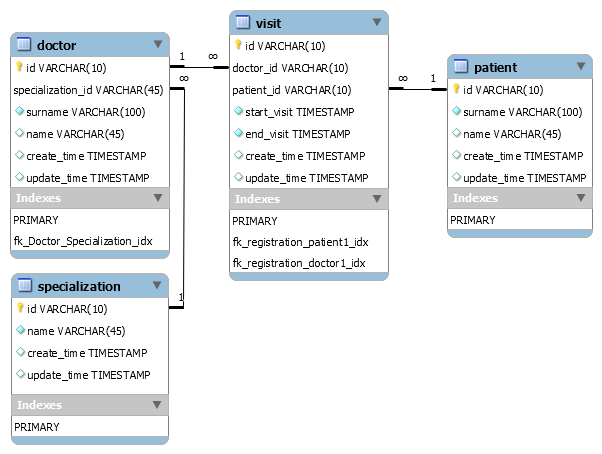
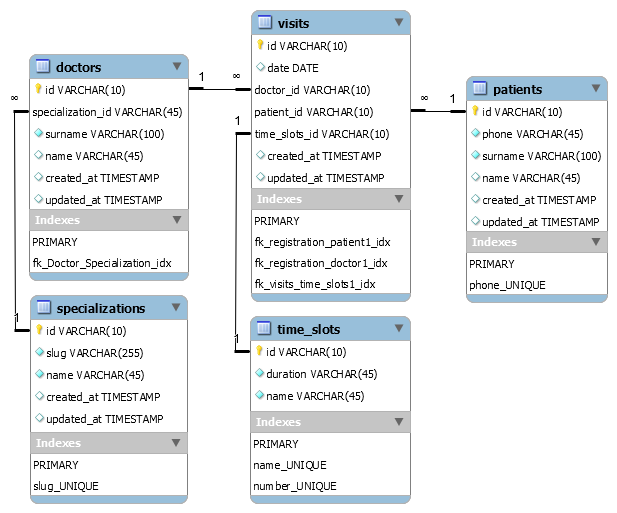
Обновление архитектуры

Changed region(s): [[0.0, 0.0, 0.6877, 0.9868], [0.6279, 0.0925, 0.9867, 0.6167]]

diff --git a/database/migrations/2019_08_05_164028_create_time_slots_table.php b/database/migrations/2019_08_05_164028_create_time_slots_table.php
@@ -4,7 +4,7 @@ use Illuminate\Support\Facades\Schema;
 use Illuminate\Database\Schema\Blueprint;
 use Illuminate\Database\Migrations\Migration;
 
-class CreateUsersTable extends Migration
+class CreateTimeSlotsTable extends Migration
 {
     /**
      * Run the migrations.
@@ -13,14 +13,10 @@ class CreateUsersTable extends Migration
      */
     public function up()
     {
-        Schema::create('users', function (Blueprint $table) {
+        Schema::create('time_slots', function (Blueprint $table) {
             $table->bigIncrements('id');
-            $table->string('name');
-            $table->string('email')->unique();
-            $table->timestamp('email_verified_at')->nullable();
-            $table->string('password');
-            $table->rememberToken();
-            $table->timestamps();
+            $table->integer('duration');
+            $table->string('name', 100);
         });
     }
 
@@ -31,6 +27,6 @@ class CreateUsersTable extends Migration
      */
     public function down()
     {
-        Schema::dropIfExists('users');
+        Schema::dropIfExists('time_slots');
     }
 }

diff --git a/database/migrations/2019_08_05_162514_visits_modification.php b/database/migrations/2019_08_05_162514_visits_modification.php
@@ -4,7 +4,7 @@ use Illuminate\Support\Facades\Schema;
 use Illuminate\Database\Schema\Blueprint;
 use Illuminate\Database\Migrations\Migration;
 
-class CreatePasswordResetsTable extends Migration
+class VisitsModification extends Migration
 {
     /**
      * Run the migrations.
@@ -13,10 +13,9 @@ class CreatePasswordResetsTable extends Migration
      */
     public function up()
     {
-        Schema::create('password_resets', function (Blueprint $table) {
-            $table->string('email')->index();
-            $table->string('token');
-            $table->timestamp('created_at')->nullable();
+        Schema::table('visits', function (Blueprint $table) {
+            $table->dropColumn(['start_visit', 'end_visit']);
+            $table->integer('time_slots_id')->after('patient_id');
         });
     }
 
@@ -27,6 +26,8 @@ class CreatePasswordResetsTable extends Migration
      */
     public function down()
     {
-        Schema::dropIfExists('password_resets');
+        Schema::table('visits', function (Blueprint $table) {
+            //
+        });
     }
 }

diff --git a/database/migrations/2019_08_05_163405_add_slug_to_specializations.php b/database/migrations/2019_08_05_163405_add_slug_to_specializations.php
@@ -1,0 +1,32 @@
+<?php
+
+use Illuminate\Support\Facades\Schema;
+use Illuminate\Database\Schema\Blueprint;
+use Illuminate\Database\Migrations\Migration;
+
+class AddSlugToSpecializations extends Migration
+{
+    /**
+     * Run the migrations.
+     *
+     * @return void
+     */
+    public function up()
+    {
+        Schema::table('specializations', function (Blueprint $table) {
+            $table->string('slug')->unique();
+        });
+    }
+
+    /**
+     * Reverse the migrations.
+     *
+     * @return void
+     */
+    public function down()
+    {
+        Schema::table('specializations', function (Blueprint $table) {
+            //
+        });
+    }
+}

diff --git a/database/migrations/2019_08_05_163731_add_phone_to_patients.php b/database/migrations/2019_08_05_163731_add_phone_to_patients.php
@@ -1,0 +1,32 @@
+<?php
+
+use Illuminate\Support\Facades\Schema;
+use Illuminate\Database\Schema\Blueprint;
+use Illuminate\Database\Migrations\Migration;
+
+class AddPhoneToPatients extends Migration
+{
+    /**
+     * Run the migrations.
+     *
+     * @return void
+     */
+    public function up()
+    {
+        Schema::table('patients', function (Blueprint $table) {
+            $table->integer('phone');
+        });
+    }
+
+    /**
+     * Reverse the migrations.
+     *
+     * @return void
+     */
+    public function down()
+    {
+        Schema::table('patients', function (Blueprint $table) {
+            //
+        });
+    }
+}

diff --git a/app/Models/TimeSlot.php b/app/Models/TimeSlot.php
@@ -1,0 +1,10 @@
+<?php
+
+namespace Clinic\Models;
+
+use Illuminate\Database\Eloquent\Model;
+
+class TimeSlot extends Model
+{
+    //
+}
